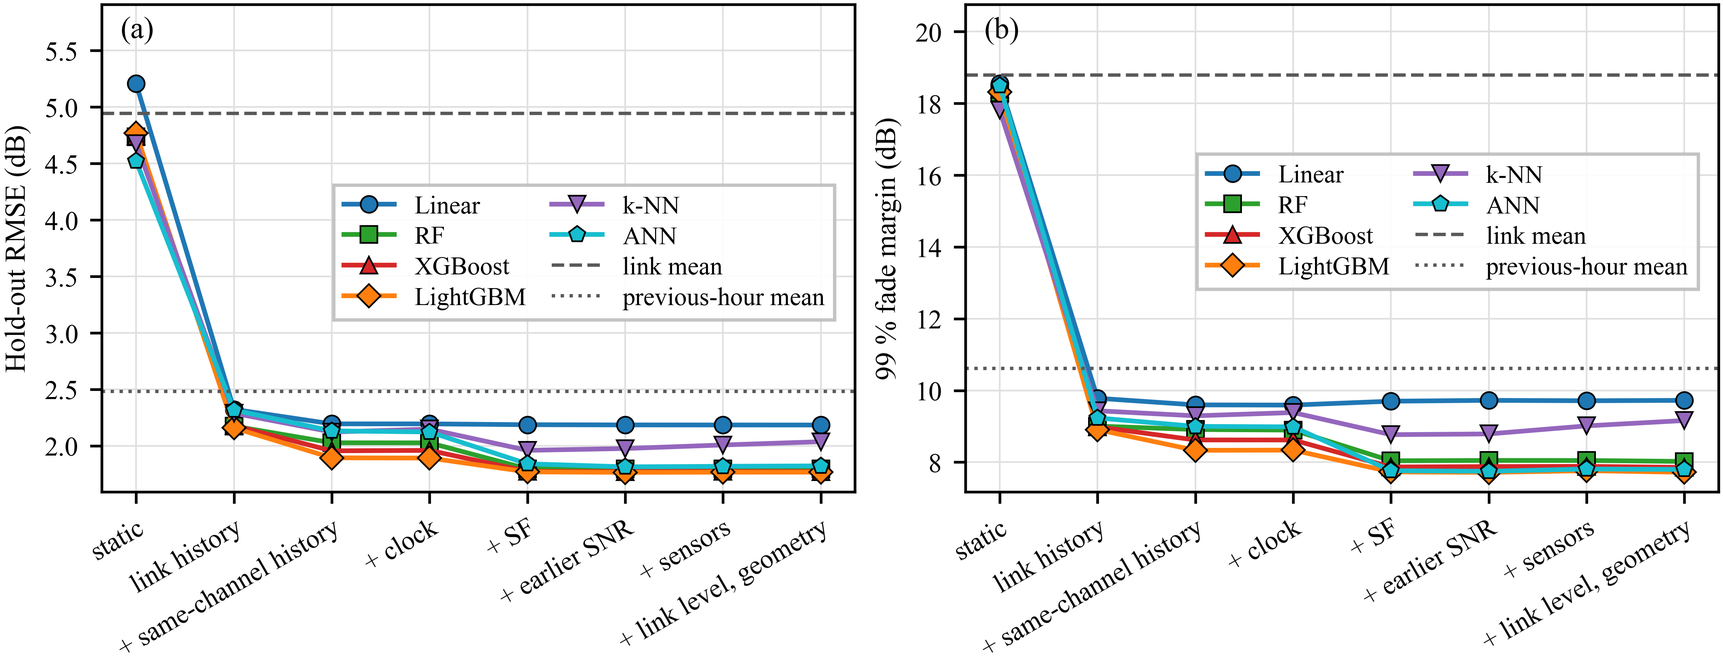
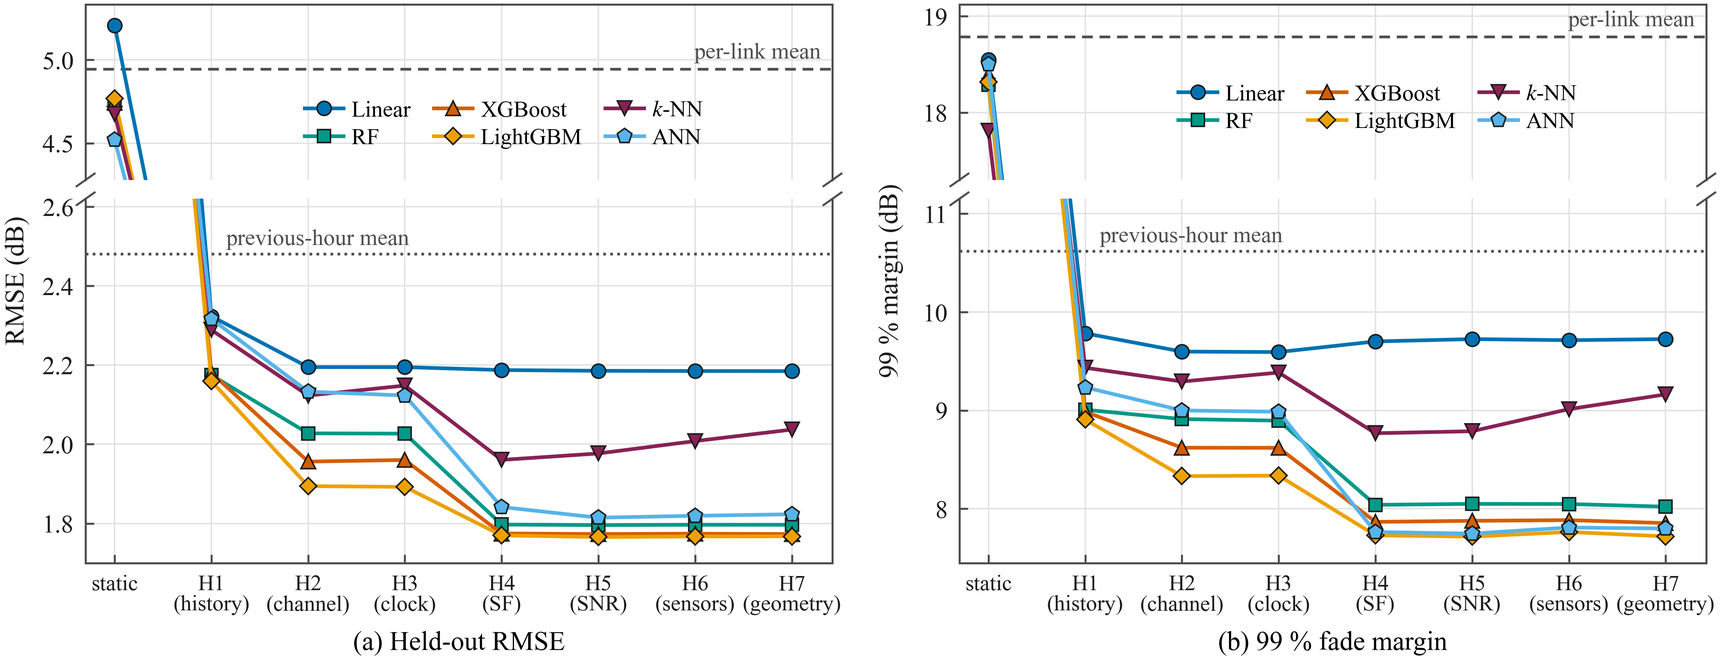
README: the three redrawn figures with their captions; ML wording; the margin bullets on the hold-out (quantile model 6.3 per thousand below the 36-cell table, were window-1 values); notebooks 19 and 21 read the public data; rungs H1 to H7; rounding

diff --git a/README.md b/README.md
@@ -10,7 +10,7 @@
 
 This study compares analytical and empirical indoor propagation laws, linear models, tree ensembles, nearest-neighbour regression and neural networks on a later period of LoRaWAN path loss measurements. It then uses out-of-fold errors to estimate fade margins at specified residual-coverage targets, and asks how those margins depend on what the predictor knows: geometry and environmental sensors only, or also the link's own earlier packets.
 
-RMSE and the upper residual tail are distinct objectives. With geometry and sensors alone the 99% fade margin is 17.8 to 18.5 dB for every learned model and the calibrated COST 231 multi-wall model, although held-out RMSE ranges from 4.5 to 6.4 dB. With the link's earlier packets it falls to 7.7 to 9.8 dB when calibrated on the whole year, which includes SF11 and SF12 rows that the hold-out lacks. A margin that also conditions on the spreading factor and the state of the link needs about 4 dB on the hold-out. Notebooks 16 to 21 test the margins as quantile forecasts, compare the history models with the estimators of adaptive data rate schemes, measure what each group of inputs adds, repeat the ladder on two public datasets, and report the mean absolute error and the correlation within each link.
+RMSE and the upper residual tail are distinct objectives. With geometry and sensors alone the 99% fade margin is 17.8 to 18.5 dB for every ML model and the calibrated COST 231 multi-wall model, although held-out RMSE ranges from 4.5 to 6.4 dB. With the link's earlier packets it falls to 7.7 to 9.8 dB when calibrated on the whole year, which includes SF11 and SF12 rows that the hold-out lacks. A margin that also conditions on the spreading factor and the state of the link needs about 4 dB on the hold-out. Notebooks 16 to 21 test the margins as quantile forecasts, compare the history models with the estimators of adaptive data rate schemes, measure what each group of inputs adds, repeat the ladder on two public datasets, and report the mean absolute error and the correlation within each link.
 
 ## Experimental design
 
@@ -49,17 +49,17 @@ Early stopping uses the latest part of each training set in time order: for the 
 
 *RMSE in dB. Out-of-fold RMSE pools the 1,773,515 validation rows; R² is computed from the held-out residual files; margins in dB at the 95% and 99% residual-coverage targets.*
 
-The ANN leads at 4.52 dB (95% CI 4.28 to 4.75), resolved ahead of kNN at 4.68 dB by 0.16 dB (CI 0.04 to 0.26) and of the three tree ensembles by 0.22 to 0.25 dB; kNN is resolved ahead of the random forest at 4.74 dB by 0.06 dB (CI 0.00 to 0.12) but not of XGBoost at 4.74 and LightGBM at 4.77 dB (0.07 and 0.09 dB, with intervals that include zero). The five nonlinear models are resolved ahead of the linear model, by 0.44 to 0.69 dB. The ANN's one-standard-error selection, among candidates that differ by tenths of a decibel of validation RMSE, chose a 16/8/4 network with dropout 0.1 (421 parameters), whose 30-seed ensemble reaches 4.52 dB (single seeds 4.50 to 5.30 dB). The kNN's $k$ was searched from 100 to 50,000 together with the metric, the weighting and the scaling; the selected $k$ = 30,780 (Manhattan distance, distance weights) lies inside that range; it is 1.4% of the training rows, about 9% of the packets of one link, so the prediction is a heavily smoothed average. Every data-driven model beats the calibrated COST 231 multi-wall model by at least 1.2 dB and the fixed-parameter propagation models by at least 2.3 dB.
+The ANN leads at 4.52 dB (95% CI 4.28 to 4.75), resolved ahead of kNN at 4.68 dB by 0.16 dB (CI 0.04 to 0.26) and of the three tree ensembles by 0.22 to 0.25 dB; kNN is resolved ahead of the random forest at 4.74 dB by 0.06 dB (CI 0.00 to 0.12) but not of XGBoost at 4.74 and LightGBM at 4.77 dB (0.07 and 0.09 dB, with intervals that include zero). The five nonlinear models are resolved ahead of the linear model, by 0.44 to 0.69 dB. The ANN's one-standard-error selection, among candidates that differ by tenths of a decibel of validation RMSE, chose a 16/8/4 network with dropout 0.1 (421 parameters), whose 30-seed ensemble reaches 4.52 dB (single seeds 4.50 to 5.30 dB). The kNN's $k$ was searched from 100 to 50,000 together with the metric, the weighting and the scaling; the selected $k$ = 30,780 (Manhattan distance, distance weights) lies inside that range; it is 1.4% of the training rows, about 9% of the packets of one link, so the prediction is a heavily smoothed average. Every ML model beats the calibrated COST 231 multi-wall model by 1.2 to 1.8 dB and the fixed-parameter propagation models by at least 2.0 dB.
 
-At a 99% residual-coverage target the learned static models and COST 231 need 17.8 to 18.5 dB, at 98% 14.8 to 15.5 dB and at 95% 10.8 to 11.6 dB; the other propagation models need more. The six learned models lie within 0.7 dB of each other at 99%. Every margin in this repository is the empirical quantile of the out-of-fold residuals, the split-conformal shift of `margin_tools.py`; a Gaussian-mixture tail estimate, with the number of components chosen by cross-validation over the time blocks, is reported next to it as a sensitivity check and lies within 0.5 dB of it at 99% for the static models and within 0.05 dB for every family on history rung H4 (notebook 09). Held-out coverage at the 99% margin is 99.7 to 99.8%, and a fixed 10 dB margin reaches 97.4 to 98.3%. Intervals come from a device-aware moving-block bootstrap.
+At a 99% residual-coverage target the static ML models and COST 231 need 17.8 to 18.5 dB, at 98% 14.8 to 15.5 dB and at 95% 10.8 to 11.6 dB; the other propagation models need more. The six ML models lie within 0.7 dB of each other at 99%. Every margin in this repository is the empirical quantile of the out-of-fold residuals, the split-conformal shift of `margin_tools.py`; a Gaussian-mixture tail estimate, with the number of components chosen by cross-validation over the time blocks, is reported next to it as a sensitivity check and lies within 0.5 dB of it at 99% for the static models and within 0.05 dB for every family on history rung H4 (notebook 09). Held-out coverage at the 99% margin is 99.7 to 99.8%, and a fixed 10 dB margin reaches 97.4 to 98.3%. Intervals come from a device-aware moving-block bootstrap.
 
 ### Link history
 
 ![Hold-out RMSE and 99% fade margin by information rung and model family](docs/assets/information-by-family.png)
 
-*Hold-out RMSE (left) and calibrated 99% fade margin (right) by information rung and model family. Dashed: each link's mean path loss; dotted: the previous-hour mean.*
+*Hold-out RMSE (a) and calibrated 99% fade margin (b) by information rung and model family; each y-axis is broken between the static models and rung H1. Dashed: the per-link mean; dotted: the previous-hour mean.*
 
-From here the response is the deviation of path loss from the link's previous-hour mean, so the inputs are level-free and a model that learns nothing scores as the previous-hour mean. The rungs are cumulative: (1) the link's earlier path loss as lags and windows from five packets to seven days; (2) the history of the same channel, the clock and the spreading factor; (3) the SNR of earlier packets and the environmental sensors; (4) the link's level and its geometry. Every feature of a packet uses earlier packets of the same link only.
+From here the response is the deviation of path loss from the link's previous-hour mean, so the inputs are level-free and a model that predicts no deviation scores as the previous-hour mean. The rungs are cumulative: H1 holds the link's earlier path loss as lags and windows from five packets to seven days; H2, H3 and H4 add the history of the same channel, the clock and the spreading factor; H5 and H6 the SNR of earlier packets and the environmental sensors; H7 the link's level and its geometry. Every feature of a packet uses earlier packets of the same link only.
 
 | Family | Static | H1: link history | H2: + channel history | H3: + clock | H4: + SF | H5: + earlier SNR | H6: + sensors | H7: + level, geometry |
 |---|---|---|---|---|---|---|---|---|
@@ -97,13 +97,13 @@ Notebook 20 adds the mean absolute error and the Pearson correlation between mea
 
 *MAE, RMSE and bias in dB; r is the Pearson correlation between measured and predicted path loss. The first seven rows use geometry and sensors only; the last three use the rungs of the table above.*
 
-- **Over all links the correlation mostly identifies the link.** The mean path loss of the links spans 43 dB (66 dB for ED0, 109 dB for ED5) and 93% of the variance of the path loss on the hold-out lies between the links, so one constant per link scores 0.959 and every static machine-learning model between 0.953 and 0.963. COST 231 scores 0.926, the models with link history 0.988 to 0.994.
+- **Over all links the correlation mostly identifies the link.** The mean path loss of the links spans 43 dB (66 dB for ED0, 109 dB for ED5) and 93% of the variance of the path loss on the hold-out lies between the links, so one constant per link scores 0.959 and every static ML model between 0.953 and 0.963. COST 231 scores 0.926, the models with link history 0.990 to 0.994.
 - **Within a link no static model follows the path loss in time.** Their correlation lies between -0.11 and +0.12, the previous-hour mean alone reaches 0.81 and the models with link history 0.83 to 0.91. The -0.11 of the physical models is the channel: the carrier frequency is their only input that changes within a link, a term of 0.005 dB, and a correlation does not depend on scale, so it equals the correlation of the measured path loss with the frequency.
-- **The MAE orders the static models like the RMSE.** ANN, kNN, random forest, XGBoost, LightGBM, link mean and linear model stand in the same order by both measures. The static machine-learning models reach 3.50 dB (ANN) to 4.10 dB (linear), COST 231 5.05 dB and the models with link history 1.3 to 1.7 dB. The fitted static models and the link mean are biased by +0.5 to +1.6 dB on the summer hold-out, the models with link history by at most 0.25 dB.
+- **The MAE orders the static models like the RMSE.** ANN, kNN, random forest, XGBoost, LightGBM, link mean and linear model stand in the same order by both measures. The static ML models reach 3.50 dB (ANN) to 4.10 dB (linear), COST 231 5.05 dB and the models with link history 1.3 to 1.7 dB. The fitted static models and the link mean are biased by +0.5 to +1.6 dB on the summer hold-out, the models with link history by at most 0.25 dB.
 
 ### Calibrating and validating the margins
 
-A margin is an upper quantile forecast, so it is tested like one. The shift added to a base predictor comes only from earlier packets, the score is the pinball loss, coverage is checked by state and not only overall, and the misses are tested for independence. Notebook 16 builds the margin on rung 2 with a LightGBM regression and with LightGBM quantile models, calibrates it five ways, and tests each on five windows: validation folds 1 to 4 and the hold-out, each calibrated on the folds before it. Hold-out, 99% target:
+A margin is an upper quantile forecast, so it is tested like one. The shift added to a base predictor comes only from earlier packets, the score is the pinball loss, coverage is checked by state and not only overall, and the misses are tested for independence. Notebook 16 builds the margin on rung H4 with a LightGBM regression and with LightGBM quantile models, calibrates it five ways, and tests each on five windows: validation folds 1 to 4 and the hold-out, each calibrated on the folds before it. Hold-out, 99% target:
 
 | Margin | Coverage | Lowest state coverage | Mean margin, dB | Pinball loss x 1000 | Miss clustering |
 |---|---|---|---|---|---|
@@ -117,14 +117,14 @@ A margin is an upper quantile forecast, so it is tested like one. The shift adde
 
 *Coverage is the share of hold-out packets below the margin. The lowest state coverage is over the working and other hours, the recent-spread terciles, the spreading factors and the links with 1,000 packets or more. Miss clustering is the chance of a miss right after a miss divided by the chance after a covered packet; 1 means independent misses. The margin per state is a lookup table of 36 shifts by spreading factor, working hours and recent-spread tercile.*
 
-![Coverage by state, coverage by window and clustering of the misses](docs/assets/margin-calibration.png)
+![Coverage and mean margin of four margins by state and by test window](docs/assets/margin-calibration.png)
 
-*Hold-out coverage by state with 95% intervals from resampling days (a), coverage in each test window (b) and the clustering of the misses on the hold-out (c), 99% target.*
+*Coverage (top) and mean margin above the anchor (bottom) of four margins at the 99% target: by working hours (a), recent spread (b) and spreading factor (c) on the hold-out, with 95% intervals from resampling days, and in each test window, calibrated on the blocks before it (d).*
 
-- **A single pooled shift drifts with the regime.** One margin from all earlier validation packets covers between 98.8 and 99.4% in the four validation windows and 99.85% on the hold-out, which holds practically no SF11 or SF12 (33 packets) and is a summer window. In the validation windows its worst state is always SF12, covered at 93.6 to 94.6%, while every other spreading factor is covered at 99.5% or more.
-- **Knowing the state is most of the gain.** A margin per group of spreading factor and working hours cuts the pinball loss from 85.7 to 61.4 per thousand, and the table of 36 margins to 58.3. The mean margin above the anchor falls from 7.7 to 4.6 dB, at a hold-out coverage of 99.12% instead of 99.85%.
-- **The quantile model is sharper than the table by about 15%.** Its pinball loss is 8.9 per thousand lower than that of the 36-cell table, with a 95% interval from 8.1 to 9.6. Its coverage in the volatile third is level with the table (difference -0.1 points, interval -0.1 to +0.0) and 0.3 points above the 12-cell table (interval +0.2 to +0.4). Conditional coverage therefore comes from knowing the state, by a table or by a model.
-- **Adaptive conformal inference holds the target in every window.** Coverage is 99.0% in all five windows for both base predictors, where the pooled shift moves between 98.8 and 99.85%. In validation fold 3, the window with the heaviest tail, it lowers the pinball loss of the quantile model by 33%, with an interval from 8% to 69%.
+- **A single pooled shift drifts with the regime.** One margin from all earlier validation packets covers between 98.8 and 99.4% in the four validation windows and 99.85% on the hold-out, which holds practically no SF11 or SF12 (33 packets) and is a summer window. In the validation windows its worst state is always SF12, covered at 93.6 to 94.6%, while SF7 to SF11 are covered at 99.5 to 99.9%.
+- **Knowing the state is most of the gain.** A margin per group of spreading factor and working hours cuts the pinball loss from 85.7 to 61.4 per thousand, and the table of 36 margins to 58.3. The mean margin above the anchor falls from 7.7 to 4.6 dB with the margin per spreading factor and hours and to 4.2 dB with the 36-cell table, at a hold-out coverage of 99.33 and 99.12% instead of 99.85%.
+- **The quantile model is sharper than the table by about 11%.** Its pinball loss is 6.3 per thousand lower than that of the 36-cell table, with a 95% interval from 5.0 to 8.2. Its coverage in the volatile third is level with the table (difference -0.03 points, interval -0.20 to +0.13) and 1.0 point above the 12-cell table (interval +0.7 to +1.2). Conditional coverage therefore comes from knowing the state, by a table or by a model.
+- **Adaptive conformal inference holds the target in every window.** Coverage is 99.0 to 99.1% in all five windows for both base predictors, where the pooled shift moves between 98.8 and 99.85%. In validation fold 3, the window with the heaviest tail, it lowers the pinball loss of the quantile model by 33%, with an interval from 8% to 69%.
 - **Misses cluster less the more the margin knows.** The ratio is 68 for one regression margin and 2.4 for the quantile model with the adaptive shift, with an interval from 1.8 to 2.9, so no method reaches independence. A regression of the misses on the previous miss and the state rejects independence for every method with half a million packets, so the effect size matters: the chance of a miss across the states ranges from 0 to 14% with one regression margin and from 0.7 to 3.7% with the adaptive quantile margin, against a target of 1%.
 - **The other targets.** At the 95 and 90% targets the ordering is the same. The adaptive quantile model reaches 95.0 and 90.0% coverage on the hold-out with a mean margin of 2.4 and 1.9 dB, where one regression margin gives 97.6 and 92.6% with 3.1 and 2.1 dB.
 
@@ -132,7 +132,7 @@ At one uplink every 10 minutes LightGBM on rung H4 reaches 2.1 dB RMSE and a 99%
 
 ### Estimators from the adaptive data rate literature
 
-Notebook 17 puts the estimators of adaptive data rate schemes on the same footing as the learned history models: the previous packet, the mean, the median, the exponential average, a Kalman filter and the linear-regression extrapolation of the last 20 packets, and the best of the last 20 packets that the standard rule uses. The tuned ones are tuned on the validation folds. The margin is one shift per group of spreading factor and working hours, calibrated on the validation folds. Hold-out, 99% target, with the difference to the LightGBM in pinball loss and its 95% interval:
+Notebook 17 puts the estimators of adaptive data rate schemes on the same footing as the ML history models: the previous packet, the mean, the median, the exponential average, a Kalman filter and the linear-regression extrapolation of the last 20 packets, and the best of the last 20 packets that the standard rule uses. The tuned ones are tuned on the validation folds. The margin is one shift per group of spreading factor and working hours, calibrated on the validation folds. Hold-out, 99% target, with the difference to the LightGBM in pinball loss and its 95% interval:
 
 | Estimator of the current path loss | RMSE, dB | Coverage | Mean margin, dB | Pinball loss x 1000 | Difference to LightGBM |
 |---|---|---|---|---|---|
@@ -147,7 +147,7 @@ Notebook 17 puts the estimators of adaptive data rate schemes on the same footin
 | 24 hour mean | 3.12 | 99.3% | 8.51 | 108.9 | +47.55 [+39.03, +58.18] |
 | best of the last 20 | 4.70 | 99.7% | 9.41 | 105.3 | +43.99 [+42.88, +45.10] |
 
-- **The learned history models beat every classical estimator.** The exponential average and the Kalman filter reach 2.41 and 2.40 dB, level with the mean of the last 20 packets, 2.39 dB, and close to the previous-hour mean, 2.48 dB. The LightGBM reaches 1.77 dB. Filtering is not what matters: the learned model gains from the longer windows, the same-channel history and the spreading factor, which the classical estimators do not use.
+- **LightGBM on rung H4 beats every classical estimator.** The exponential average and the Kalman filter reach 2.41 and 2.40 dB, level with the mean of the last 20 packets, 2.39 dB, and close to the previous-hour mean, 2.48 dB. LightGBM reaches 1.77 dB. Filtering is not what matters: LightGBM gains from the longer windows, the same-channel history and the spreading factor, which the classical estimators do not use.
 - **The standard rule is the weakest.** The best of the last 20 packets selects the extreme and estimates the level with a 4.70 dB RMSE. A fixed 10 dB above it, 6.2 dB above the anchor on average, covers 97.7% at a 99% target; the same 10 dB above the mean of the last 20 packets covers 99.9%.
 
 ### What each group of inputs adds
@@ -170,7 +170,7 @@ Notebook 18 repeats the static benchmark with one LightGBM tuned separately on e
 
 - **Every subset with the geometry, and without the SNR of the same packet, is within 0.20 dB of the per-link mean.** The whole range is as large as the noise of the tuning: repeating the search and the fits for the same inputs moves the hold-out RMSE by up to 0.07 dB. Distance alone, which is the per-link mean up to shrinkage, lands 0.08 dB below it, so differences of that size are not resolved.
 - **The environment adds about 0.1 dB, not resolved from zero.** Added to the geometry it lowers the hold-out RMSE from 4.86 to 4.75 dB; added to geometry and channel, by 0.08 dB, with an interval from -0.19 to +0.03. Both are of the order of the tuning noise. The sensors alone remove 4% of the variance around one mean for all links, where the training mean of each link removes 91%.
-- **The SNR of the same packet, the predictor of the submitted manuscript, is worth 0.07 dB here, not resolved from zero.** Added to the benchmark it lowers the hold-out RMSE from 4.77 to 4.70 dB (-0.07 [-0.17, +0.04]) and raises the 99% shift from 18.28 to 18.40 dB. Link by link it ranges from -0.70 dB on ED5, the weakest link, to +0.50 dB on ED1, where the added input makes the model worse; every office link operates at a median SNR of 8.2 to 10.5 dB (`CV_Results/static_snr_leak.csv`). It is known only once the packet has been received, so it cannot enter a link budget; on the public datasets the same leak is worth 0.64 dB (Medellín) and 0.53 dB (campus).
+- **The SNR of the same packet, the predictor of the submitted manuscript, is worth 0.07 dB here, not resolved from zero.** Added to the benchmark it lowers the hold-out RMSE from 4.77 to 4.70 dB (-0.07 [-0.17, +0.04]) and raises the 99% shift from 18.28 to 18.40 dB. Link by link it ranges from -0.70 dB on ED5, the weakest link, to +0.49 dB on ED1, where the added input makes the model worse; every office link operates at a median SNR of 8.2 to 10.5 dB (`CV_Results/static_snr_leak.csv`). It is known only once the packet has been received, so it cannot enter a link budget; on the public datasets the same leak is worth 0.64 dB (Medellín) and 0.53 dB (campus).
 - **The link's history is the step.** It lowers the RMSE by 2.20 to 2.88 dB in every family. Of the groups that follow, the same-channel history changes the hold-out RMSE by -0.27 to -0.13 dB over the families and the spreading factor by -0.28 to -0.01 dB (negative: the added inputs help), while the SNR of earlier packets, the clock, the sensors and the link level with the geometry change it by no more than 0.04 dB in any family (table below).
 
 | Step | Linear regression | Random forest | XGBoost | LightGBM | k-nearest neighbours | ANN (MLP) |
@@ -215,7 +215,7 @@ The figure of the next section draws this ladder next to the office's and the ca
 | EN3 (SF10 only) | 6.02 / 2.14 | 1.61 / 1.57 | 1.67 / 1.36 | 89.5 / 99.0% |
 | EN4 | 8.21 / 2.14 | 1.33 / 1.31 | 1.22 / 1.15 | 98.9 / 99.0% |
 
-*Hold-out RMSE in dB. The static model fitted on three links misses the fourth by 4.5 to 8.2 dB, with biases of -6.7 to +7.9 dB, against 1.6 to 2.2 dB with the link in training: distance does not carry the level of a link the model has not seen. With link history the same fit lands within 0.02 to 0.06 dB (rung H1) and 0.08 to 0.30 dB (rung H4) of the fit that included the link. The margin calibrated on the other links covers 96.3 to 98.9% of the unseen link's packets at rung H4, except on EN3 (89.5%): EN3 transmits at SF10 only while the other three cycle through SF7 to SF10, so the model carries an SF10 offset learned on the other links that EN3's own anchor already contains (bias +0.7 dB). The adaptive shift restores 99.0% on EN3 with a 4.4 dB margin, and 98.7 to 99.0% on every link at rung H4.*
+*Hold-out RMSE in dB. The static model fitted on three links misses the fourth by 4.5 to 8.2 dB, with biases of -6.7 to +7.9 dB, against 1.6 to 2.2 dB with the link in training: distance does not carry the level of a link the model has not seen. With link history the same fit lands within 0.02 to 0.06 dB (rung H1) and 0.08 to 0.30 dB (rung H4) of the fit that included the link. The margin calibrated on the other links covers 96.3 to 98.9% of the unseen link's packets at rung H4, except on EN3 (89.5%): EN3 transmits at SF10 only while the other three cycle through SF7 to SF10, so the model carries an SF10 offset fitted on the other links that EN3's own anchor already contains (bias +0.7 dB). The adaptive shift restores 99.0% on EN3 with a 4.4 dB margin, and 98.7 to 99.0% on every link at rung H4.*
 
 ### The ladder and the margins under drift: a second public dataset
 
@@ -279,7 +279,7 @@ printf '%s  %s\n' 638d918ffc3a15bb10564c852df6e6b0 Data_Files/cleaned_dataset_pe
 
 The file has 2,660,274 rows at spreading factors 7 to 12, with RSSI and SNR taken from the project gateway, pressure in hPa and, in the column `tx_power`, the transmit power the network server set for each uplink, from which `exp_pl` is computed. The [data pipeline repository](https://github.com/nahshonmokua/LoRaWAN-Indoor-Path-Loss-Modelling-with-MultiWall-Environment-Factors) regenerates it from the raw export with notebooks 02 to 04.
 
-Notebook `20` also reads the public urban measurements of González-Palacio et al., the file `LoRaWAN_PathLossMeasurements.csv` of the repository [magonzalezudem/MDPI_LoRaWAN_Dataset_With_Environmental_Variables](https://github.com/magonzalezudem/MDPI_LoRaWAN_Dataset_With_Environmental_Variables), which goes into `Data_Files`. Notebook `22` reads the campus metadata of Nikseresht et al., the files `lorawan_combined_dataset.parquet` and `deployment_weather.parquet` of the [Dataverse record](https://doi.org/10.18130/V3/RFTICK), placed in `Data_Files/uva_lorawan/` (reading Parquet needs `pyarrow`, listed in `requirements.txt`).
+Notebook `19` also reads the public urban measurements of González-Palacio et al., the file `LoRaWAN_PathLossMeasurements.csv` of the repository [magonzalezudem/MDPI_LoRaWAN_Dataset_With_Environmental_Variables](https://github.com/magonzalezudem/MDPI_LoRaWAN_Dataset_With_Environmental_Variables), which goes into `Data_Files`. Notebook `21` reads the campus metadata of Nikseresht et al., the files `lorawan_combined_dataset.parquet` and `deployment_weather.parquet` of the [Dataverse record](https://doi.org/10.18130/V3/RFTICK), placed in `Data_Files/uva_lorawan/` (reading Parquet needs `pyarrow`, listed in `requirements.txt`).
 
 Create the main environment from [`requirements.txt`](requirements.txt):
 
@@ -316,14 +316,14 @@ Run the numbered notebooks from the repository root. Their order is the dependen
 | Synthesis | [`10_General_Comparisons.ipynb`](10_General_Comparisons.ipynb), [`11_Bootstrap_Model_Comparison.ipynb`](11_Bootstrap_Model_Comparison.ipynb) | Cross-model figures and paired uncertainty estimates |
 | Link history | [`12_History_Features.ipynb`](12_History_Features.ipynb), [`history_features.py`](history_features.py) | Causal link-history inputs for the rungs |
 | History models | `13_History_Models.ipynb` (linear, random forest, XGBoost, LightGBM, ANN), `14_History_kNN.ipynb` | Residuals per family and rung, unseen-link test, static models on an unseen link |
-| Information tables | [`15_Information_by_Family.ipynb`](15_Information_by_Family.ipynb) | Rung by family tables and figure, quantile margins, sparse uplinks |
+| Information tables | [`15_Information_by_Family.ipynb`](15_Information_by_Family.ipynb) | Rung by family tables, the ladder figure and the upper tail of the held-out residuals, unseen links, quantile margins, sparse uplinks |
 | Margin validation | [`16_Margin_Calibration.ipynb`](16_Margin_Calibration.ipynb), [`margin_tools.py`](margin_tools.py) | Calibrations on rolling origins, coverage by state, independence of the misses |
 | Estimator baselines | [`17_ADR_Estimators.ipynb`](17_ADR_Estimators.ipynb) | The estimators of adaptive data rate schemes against the history models |
 | Input groups | [`18_Feature_Groups.ipynb`](18_Feature_Groups.ipynb) | Ablation of the static inputs and the steps of the history rungs, with intervals |
 | Public dataset | [`19_Medellin_Ladder.ipynb`](19_Medellin_Ladder.ipynb) | The ladder on the public urban measurements |
 | Error metrics | [`20_Error_Metrics.ipynb`](20_Error_Metrics.ipynb) | MAE, bias and Pearson correlation, pooled and within link, for every model |
 | Second public dataset | [`21_UVA_Ladder.ipynb`](21_UVA_Ladder.ipynb) | The ladder, the margins under drift and the unseen-sensor test on the campus metadata |
-| Manuscript tables | [`22_Paper_Tables.ipynb`](22_Paper_Tables.ipynb) | Dataset by device, spreading-factor schedule, selected hyperparameters and software versions, as CSV and LaTeX (`Tables/`) |
+| Manuscript tables | [`22_Paper_Tables.ipynb`](22_Paper_Tables.ipynb) | Dataset by device, spreading-factor schedule, selected hyperparameters and software versions, as CSV and LaTeX (`Tables/`); the generalization figure, which joins notebooks 15 and 17 |
 
 The full benchmark is compute-intensive. Approximate wall-clock times on a workstation with 32 CPU cores, 60 GB of RAM and one NVIDIA RTX 5090, from the run of 21 and 22 October 2026 on version 4 of the data, in which the k-NN search ran beside the other notebooks, and for `07` and the notebooks that read its outputs from the re-run of 23 and 24 October, one notebook at a time:
 
